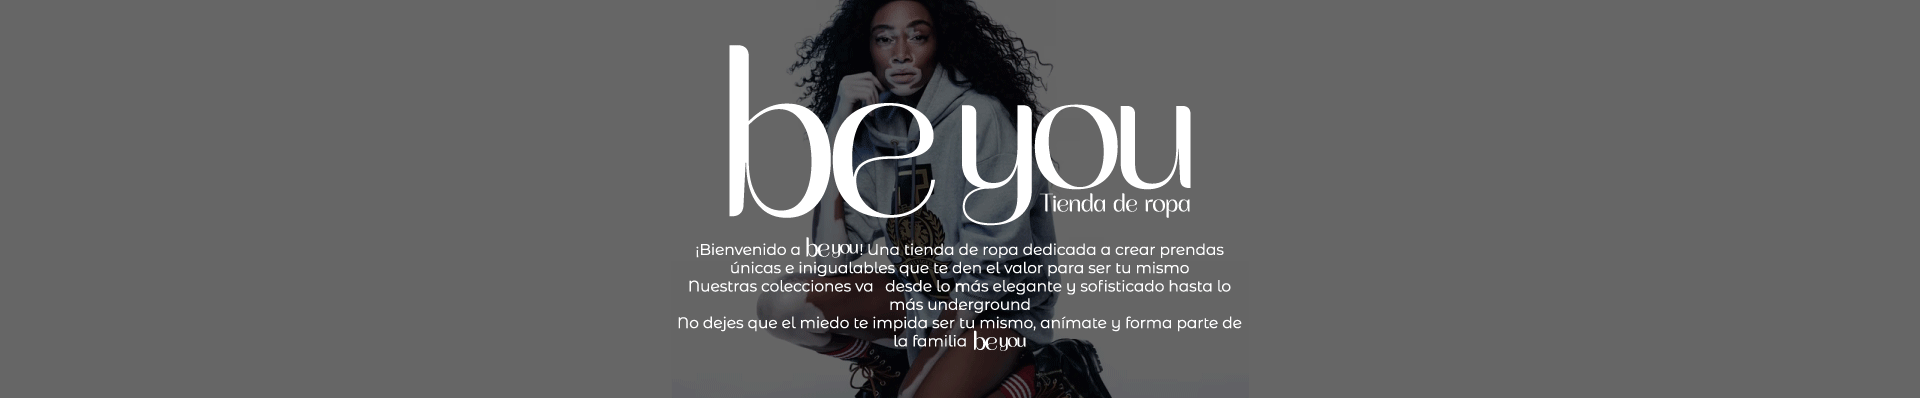
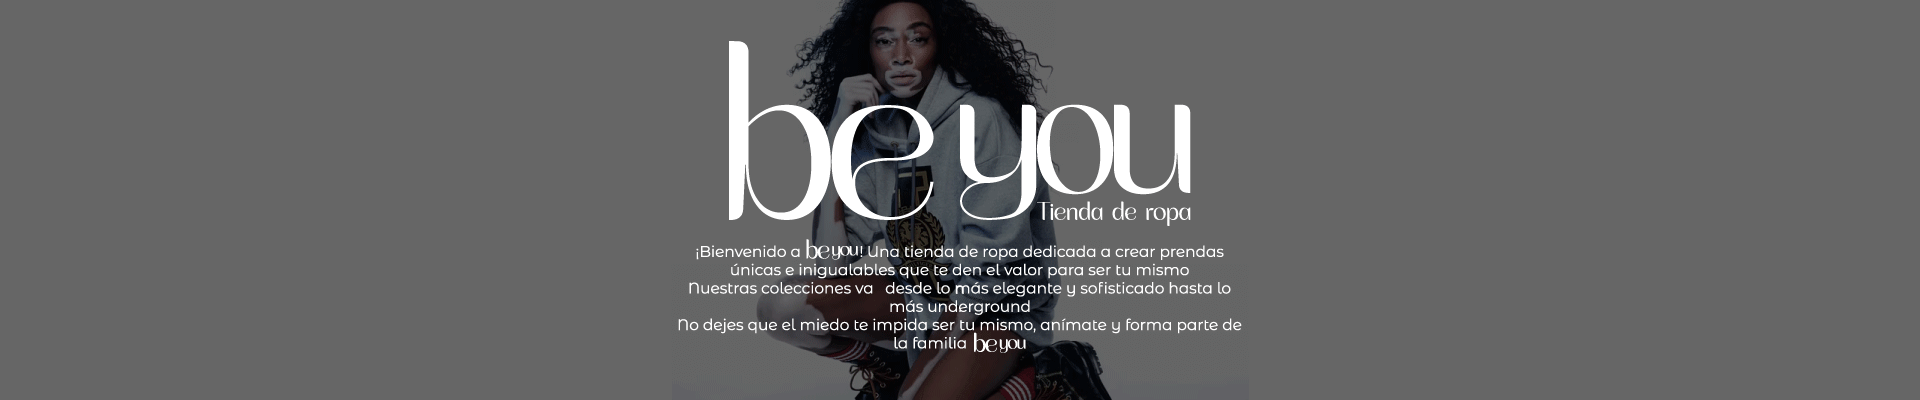
new lgoos

diff --git a/src/Components/Navbar/Navbar.jsx b/src/Components/Navbar/Navbar.jsx
@@ -1,6 +1,6 @@
 import { useEffect, useState } from "react";
-import Logo from '/nav/logoL.png';
-import Logo2 from '/nav/logoD.png';
+import Logo from '/nav/logoL.webp';
+import Logo2 from '/nav/logoD.webp';
 
 const Navbar = ({ onProductosClick, productos, productoSeleccionado }) => {
     const [menuOpen, setMenuOpen] = useState(false);
